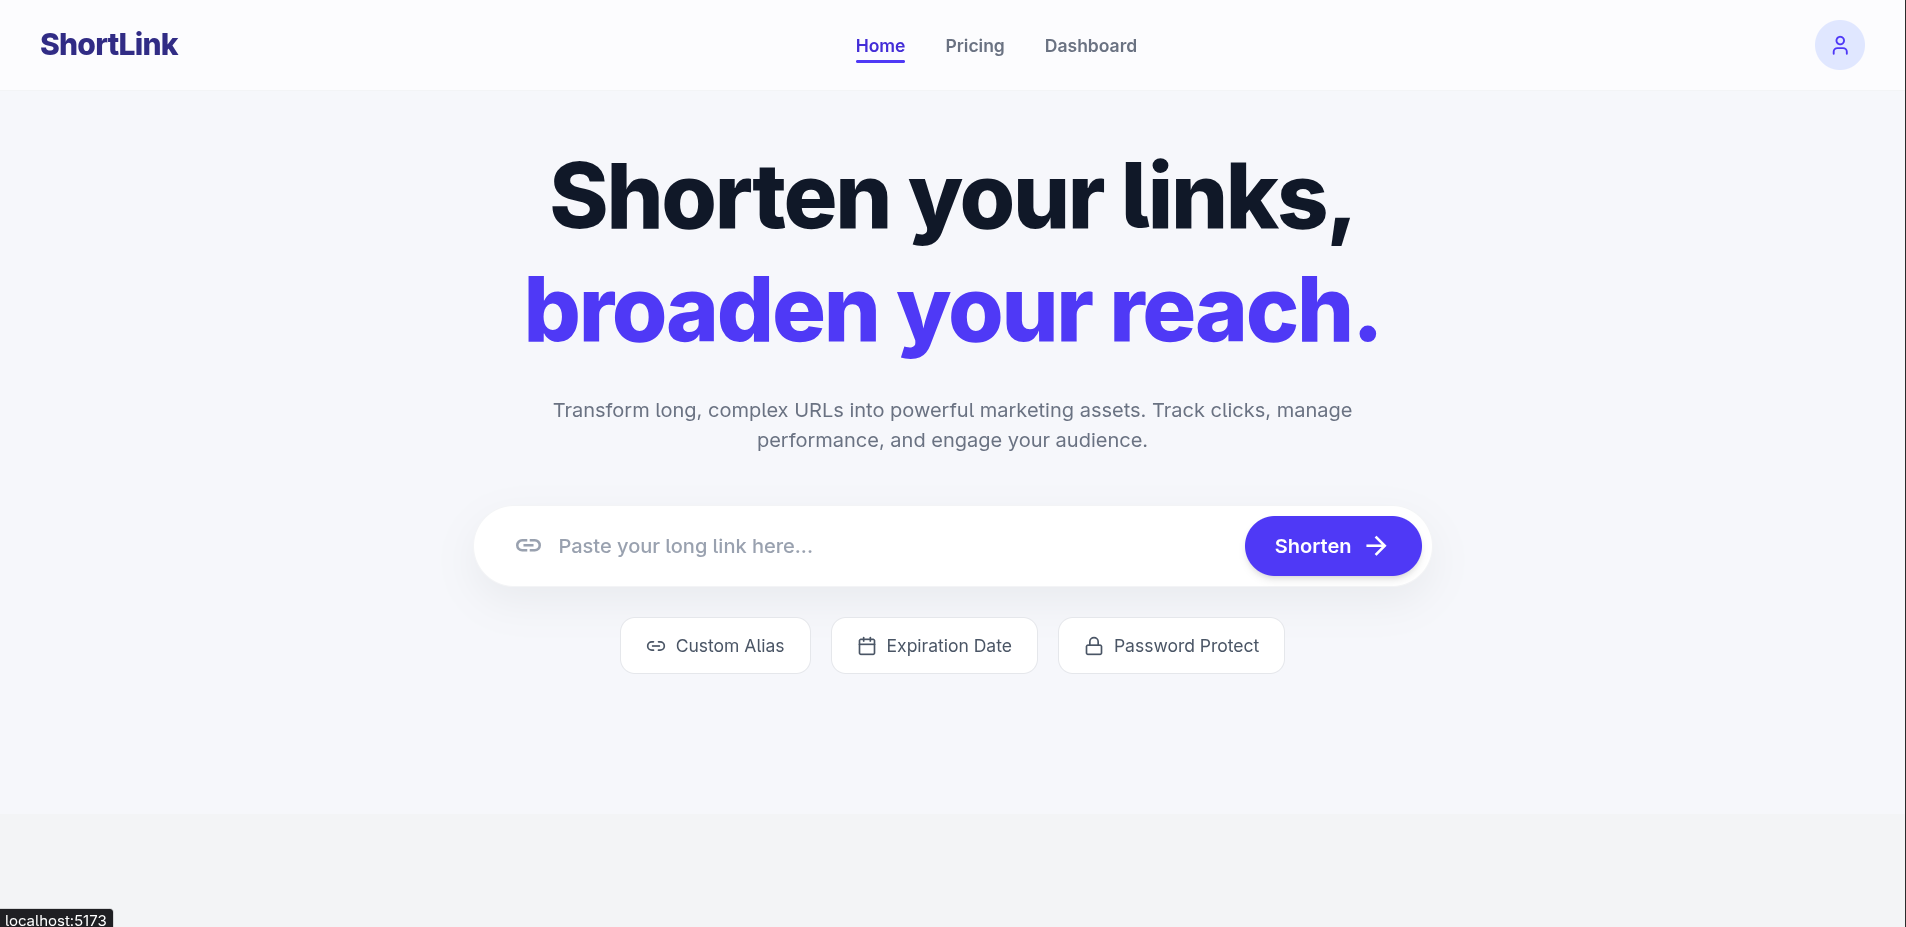
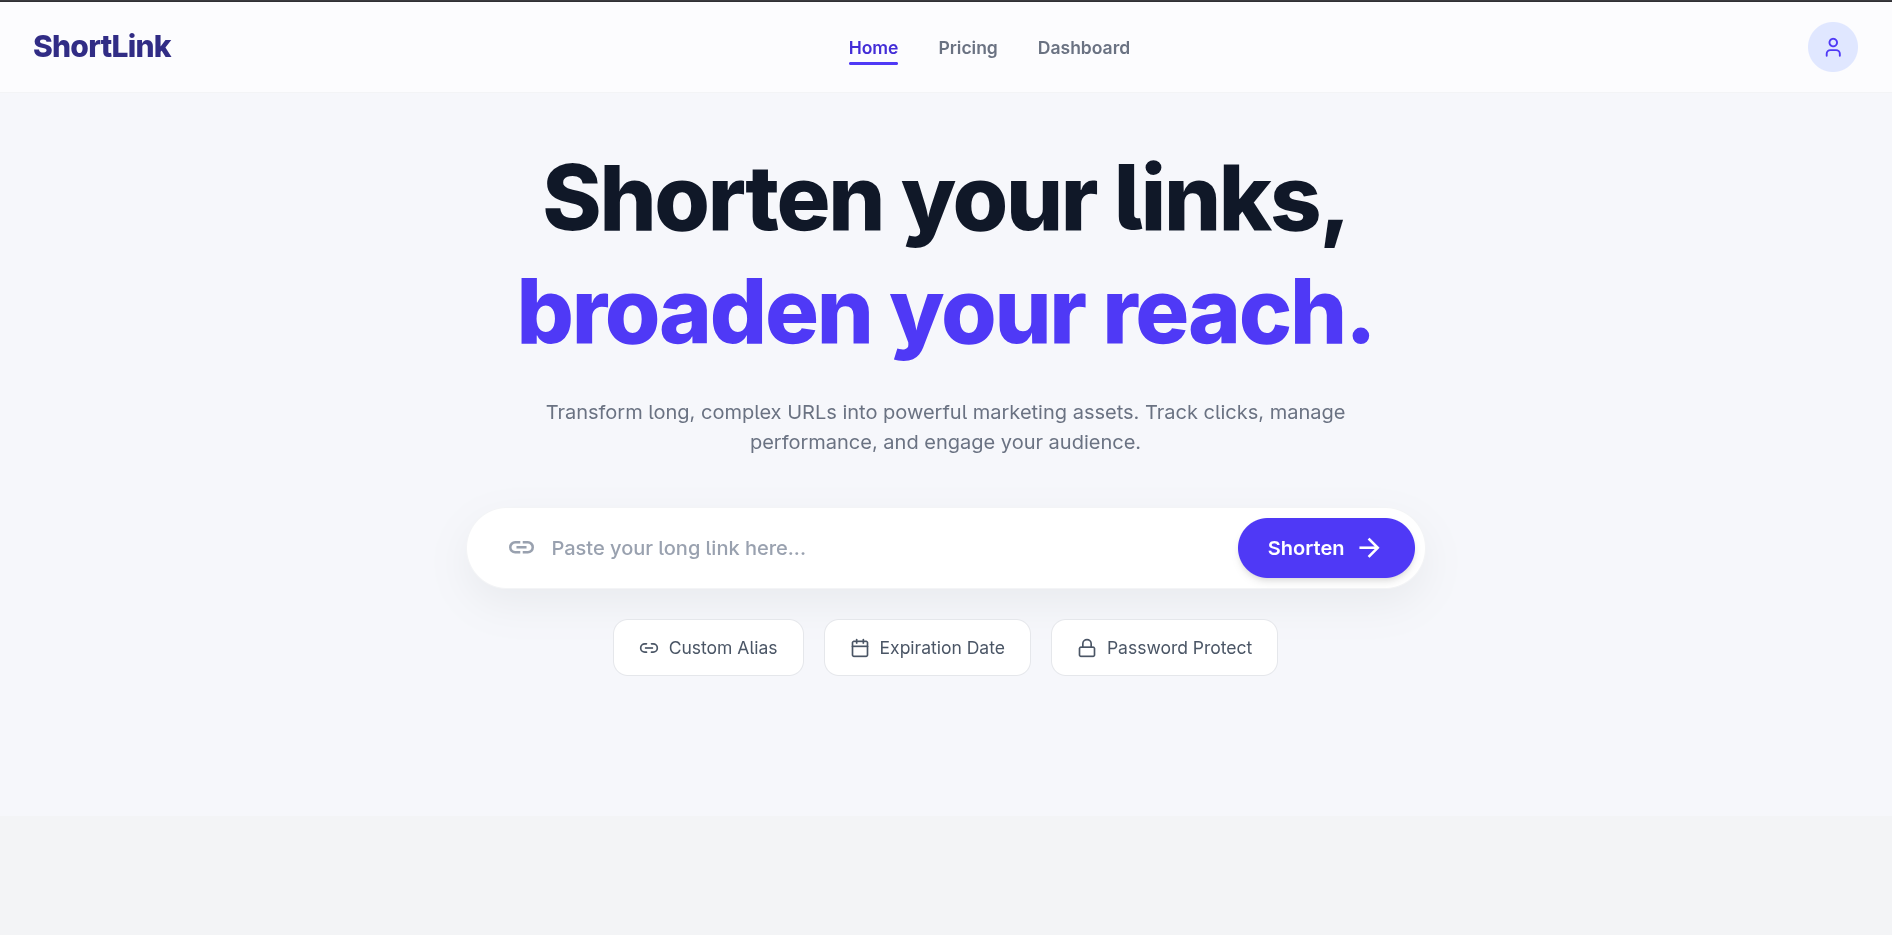
Update readme

diff --git a/README.md b/README.md
@@ -1,7 +1,5 @@
 # 🔗 ShortLink
 
-> **Shorten your links, broaden your reach.** > Transform long, complex URLs into powerful marketing assets. Track clicks, manage performance, and engage your audience.
-
 ShortLink is a high-performance, full-stack URL shortening platform. It offers instant, secure link shortening with advanced features for authenticated users, including custom aliases, expiration dates, deep analytics, and rate-limiting. Built for speed, the redirection engine leverages Redis caching to ensure sub-100ms response times.
 
 ---
